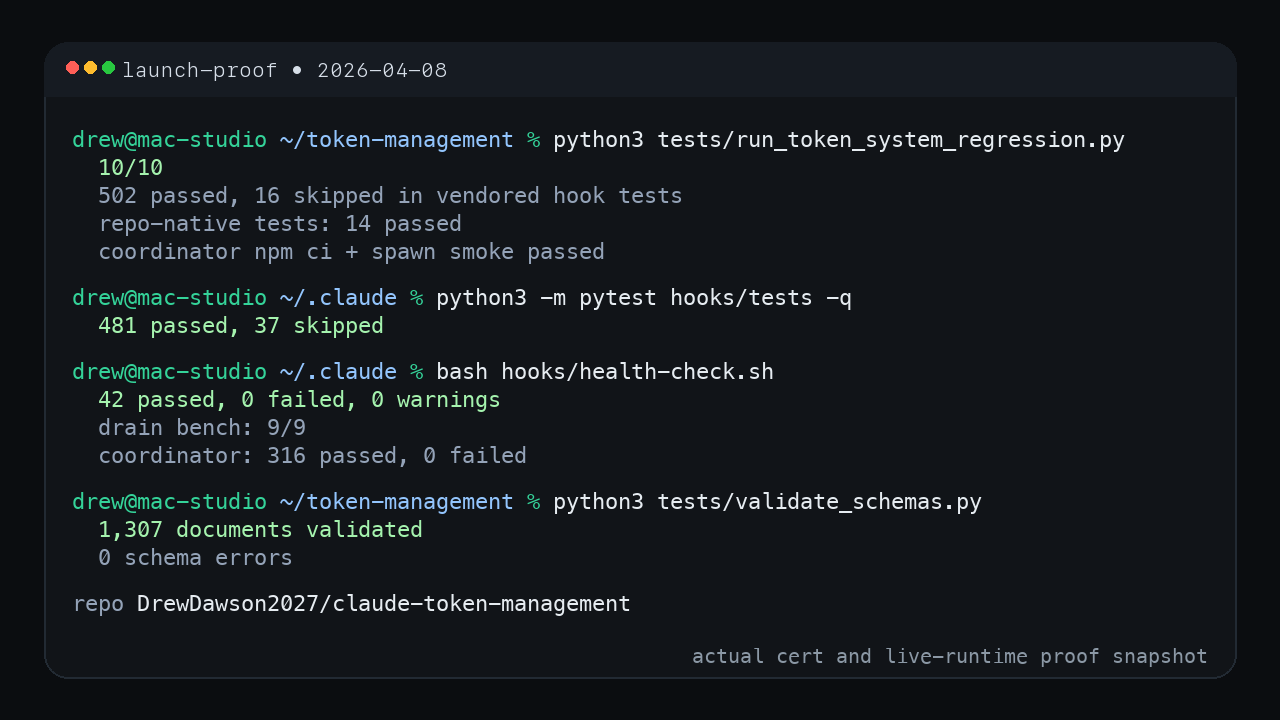
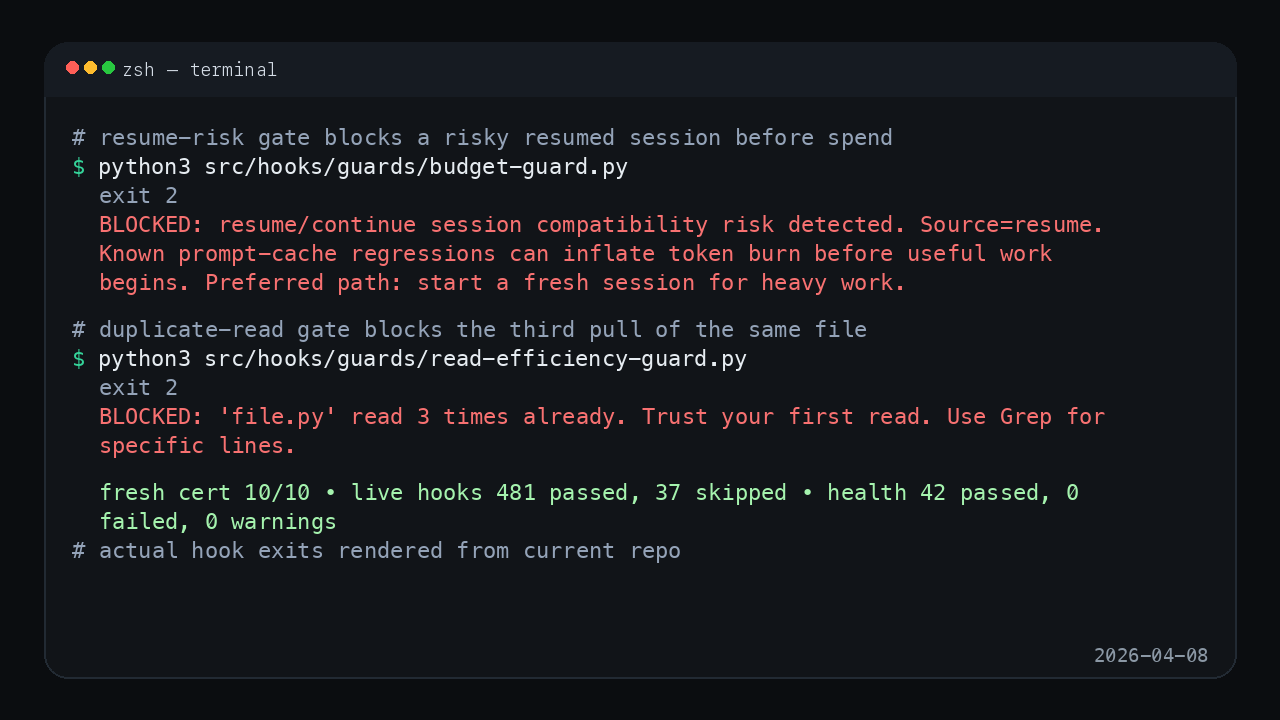
Refine launch proof terminal asset

diff --git a/src/scripts/reporting/render_launch_proof_asset.py b/src/scripts/reporting/render_launch_proof_asset.py
@@ -1,20 +1,27 @@
 #!/usr/bin/env python3
-"""Render a documentary-style social asset from the current proof snapshot."""
+"""Render a documentary-style launch asset that shows guard actions firing."""
 
 from __future__ import annotations
 
+import json
+import os
 import re
+import subprocess
+import sys
+import tempfile
 from pathlib import Path
+from textwrap import wrap
 
 from PIL import Image, ImageDraw, ImageFont
 
 
 ROOT = Path(__file__).resolve().parents[3]
-README = ROOT / "README.md"
 REGRESSION_RESULTS = ROOT / "docs" / "analysis" / "regression-results.md"
 DEFAULT_OUTPUT = ROOT / "assets" / "social" / "launch-proof.png"
 FONT_REGULAR = "/System/Library/Fonts/Menlo.ttc"
 FONT_BOLD = "/System/Library/Fonts/SFNSMono.ttf"
+BUDGET_GUARD = ROOT / "src" / "hooks" / "guards" / "budget-guard.py"
+READ_GUARD = ROOT / "src" / "hooks" / "guards" / "read-efficiency-guard.py"
 
 
 def load_text(path: Path) -> str:
@@ -29,33 +36,13 @@ def extract(pattern: str, text: str, name: str) -> str:
 
 
 def metrics() -> dict[str, str]:
-    readme = load_text(README)
     regression = load_text(REGRESSION_RESULTS)
-    schema_docs = extract(r"- `([\d,]+)` documents validated", regression, "schema_docs")
-    schema_errors = extract(r"- `([\d,]+)` schema errors", regression, "schema_errors")
     return {
         "fresh_cert": extract(r"- `([^`]+)` checks passed", regression, "fresh_cert"),
-        "vendored_hooks": extract(
-            r"- `([^`]+)` in vendored hook tests", regression, "vendored_hooks"
-        ),
-        "repo_tests": extract(
-            r"- `([^`]+)` in repo-native pytest coverage", regression, "repo_tests"
-        ),
         "live_hooks": extract(r"- Hook suite: `([^`]+)`", regression, "live_hooks"),
         "health": extract(r"- Health-check: `([^`]+)`", regression, "health"),
-        "drain_bench": extract(r"- Live drain benchmark: `([^`]+)`", regression, "drain_bench"),
-        "coordinator": extract(
-            r"- Source-tree coordinator suite: `([^`]+)`", regression, "coordinator"
-        ),
-        "schema_docs": schema_docs,
-        "schema_errors": schema_errors,
         "proof_date": extract(
             r"## ([0-9-]+) Certification Snapshot", regression, "proof_date"
-        ),
-        "repo_url": extract(
-            r"git clone https://github\.com/([A-Za-z0-9._/-]+)\.git",
-            readme,
-            "repo_url",
         ),
     }
 
@@ -72,16 +59,102 @@ def draw_segments(
         x += int(draw.textlength(text, font=font))
 
 
+def wrap_text(text: str, width: int = 84) -> list[str]:
+    lines: list[str] = []
+    for paragraph in text.splitlines():
+        stripped = paragraph.strip()
+        if not stripped:
+            lines.append("")
+            continue
+        lines.extend(wrap(stripped, width=width, break_long_words=False))
+    return lines
+
+
+def guard_env() -> dict[str, str]:
+    env = os.environ.copy()
+    env["PYTHONPATH"] = os.pathsep.join(
+        [
+            str(ROOT / "src" / "hooks" / "guards"),
+            str(ROOT / "src" / "hooks" / "infrastructure"),
+            env.get("PYTHONPATH", ""),
+        ]
+    )
+    return env
+
+
+def budget_guard_block() -> tuple[int, str]:
+    env = guard_env()
+    with tempfile.TemporaryDirectory() as td:
+        runtime = Path(td) / ".claude"
+        hooks = runtime / "hooks"
+        cost = runtime / "cost"
+        terminals = runtime / "terminals"
+        hooks.mkdir(parents=True)
+        cost.mkdir(parents=True)
+        terminals.mkdir(parents=True)
+        (hooks / "token-guard-config.json").write_text(
+            json.dumps({"budget_guard": {"enabled": True}}), encoding="utf-8"
+        )
+        (cost / "budgets.json").write_text(
+            json.dumps({"global": {"dailyUSD": 0, "monthlyUSD": 200}, "thresholds": {}}),
+            encoding="utf-8",
+        )
+        (cost / "cache.json").write_text(
+            json.dumps({"generatedAt": "2026-04-07T00:00:00Z", "windows": {}}),
+            encoding="utf-8",
+        )
+        (terminals / "session-resumeab.json").write_text(
+            json.dumps({"session": "resumeab", "source": "resume"}), encoding="utf-8"
+        )
+        env["CLAUDE_RUNTIME_DIR"] = str(runtime)
+        cp = subprocess.run(
+            [sys.executable, str(BUDGET_GUARD)],
+            input=json.dumps({"session_id": "resumeabc123", "tool_name": "Read"}),
+            capture_output=True,
+            text=True,
+            env=env,
+            check=False,
+        )
+    stderr = cp.stderr.strip()
+    stderr = re.sub(r" To acknowledge and continue anyway:.*$", "", stderr)
+    return cp.returncode, stderr
+
+
+def read_guard_block() -> tuple[int, str]:
+    env = guard_env()
+    with tempfile.TemporaryDirectory() as td:
+        env["TOKEN_GUARD_STATE_DIR"] = td
+        payload = {
+            "tool_name": "Read",
+            "tool_input": {"file_path": "/tmp/demo/file.py"},
+            "session_id": "dup-test",
+        }
+        cp = None
+        for _ in range(3):
+            cp = subprocess.run(
+                [sys.executable, str(READ_GUARD)],
+                input=json.dumps(payload),
+                capture_output=True,
+                text=True,
+                env=env,
+                check=False,
+            )
+        assert cp is not None
+    return cp.returncode, cp.stderr.strip()
+
+
 def render(output_path: Path) -> None:
     data = metrics()
+    budget_rc, budget_msg = budget_guard_block()
+    read_rc, read_msg = read_guard_block()
 
     width, height = 1280, 720
     canvas = Image.new("RGB", (width, height), "#0b0d10")
     draw = ImageDraw.Draw(canvas)
 
     regular = ImageFont.truetype(FONT_REGULAR, 22)
-    small = ImageFont.truetype(FONT_REGULAR, 20)
-    title = ImageFont.truetype(FONT_BOLD, 21)
+    small = ImageFont.truetype(FONT_REGULAR, 19)
+    title = ImageFont.truetype(FONT_BOLD, 18)
 
     window_x, window_y = 44, 42
     window_w, window_h = width - 88, height - 84
@@ -110,79 +183,67 @@ def render(output_path: Path) -> None:
         left = window_x + 22 + (idx * 18)
         draw.ellipse((left, dot_y, left + 12, dot_y + 12), fill=color)
 
-    draw.text(
-        (window_x + 78, window_y + 14),
-        f"launch-proof • {data['proof_date']}",
-        font=title,
-        fill="#d6dee8",
-    )
+    draw.text((window_x + 78, window_y + 16), "zsh — terminal", font=title, fill="#d6dee8")
 
-    prompt_green = (52, 211, 153)
-    cmd_white = (230, 236, 241)
+    prompt = (52, 211, 153)
+    cmd = (230, 236, 241)
     dim = (148, 163, 184)
-    accent = (147, 197, 253)
+    blocked = (248, 113, 113)
     ok = (165, 243, 174)
 
-    y = window_y + title_h + 30
-    line_gap = 18
-
-    lines: list[list[tuple[str, tuple[int, int, int]]]] = [
-        [
-            ("drew@mac-studio", prompt_green),
-            (" ~/token-management ", accent),
-            ("% ", prompt_green),
-            ("python3 tests/run_token_system_regression.py", cmd_white),
-        ],
-        [("  " + data["fresh_cert"], ok)],
-        [("  " + data["vendored_hooks"] + " in vendored hook tests", dim)],
-        [("  repo-native tests: " + data["repo_tests"], dim)],
-        [("  coordinator npm ci + spawn smoke passed", dim)],
-        [],
-        [
-            ("drew@mac-studio", prompt_green),
-            (" ~/.claude ", accent),
-            ("% ", prompt_green),
-            ("python3 -m pytest hooks/tests -q", cmd_white),
-        ],
-        [("  " + data["live_hooks"], ok)],
-        [],
-        [
-            ("drew@mac-studio", prompt_green),
-            (" ~/.claude ", accent),
-            ("% ", prompt_green),
-            ("bash hooks/health-check.sh", cmd_white),
-        ],
-        [("  " + data["health"], ok)],
-        [("  drain bench: " + data["drain_bench"], dim)],
-        [("  coordinator: " + data["coordinator"], dim)],
-        [],
-        [
-            ("drew@mac-studio", prompt_green),
-            (" ~/token-management ", accent),
-            ("% ", prompt_green),
-            ("python3 tests/validate_schemas.py", cmd_white),
-        ],
-        [("  " + data["schema_docs"] + " documents validated", ok)],
-        [("  " + data["schema_errors"] + " schema errors", dim)],
-        [],
-        [("repo ", dim), (data["repo_url"], cmd_white)],
+    lines: list[tuple[str, str]] = [
+        ("comment", "# resume-risk gate blocks a risky resumed session before spend"),
+        ("cmd", "$ python3 src/hooks/guards/budget-guard.py"),
+        ("dim", f"exit {budget_rc}"),
     ]
-
-    for segments in lines:
-        if segments:
-            draw_segments(draw, (window_x + 28, y), segments, regular)
-            y += regular.size + 6
-        else:
-            y += line_gap
-
-    footer = "actual cert and live-runtime proof snapshot"
-    footer_w = int(draw.textlength(footer, font=small))
-    draw.text(
-        (window_x + window_w - footer_w - 28, window_y + window_h - 34),
-        footer,
-        font=small,
-        fill="#8b98a5",
+    lines.extend(("blocked", line) for line in wrap_text(budget_msg, 79))
+    lines.extend(
+        [
+            ("blank", ""),
+            ("comment", "# duplicate-read gate blocks the third pull of the same file"),
+            ("cmd", "$ python3 src/hooks/guards/read-efficiency-guard.py"),
+            ("dim", f"exit {read_rc}"),
+        ]
     )
+    lines.extend(("blocked", line) for line in wrap_text(read_msg, 79))
+    lines.append(("blank", ""))
+    for line in wrap_text(
+        f"fresh cert {data['fresh_cert']} • live hooks {data['live_hooks']} • health {data['health']}",
+        74,
+    ):
+        lines.append(("ok", line))
+    lines.append(("comment", "# actual hook exits rendered from current repo"))
+
+    y = window_y + title_h + 28
+    for kind, text in lines:
+        if kind == "blank":
+            y += 18
+            continue
+        if kind == "cmd":
+            draw_segments(
+                draw,
+                (window_x + 28, y),
+                [
+                    ("$ ", prompt),
+                    (text[2:], cmd),
+                ],
+                regular,
+            )
+        else:
+            color = {
+                "comment": dim,
+                "dim": dim,
+                "blocked": blocked,
+                "ok": ok,
+                "repo": cmd,
+            }[kind]
+            prefix = "  " if kind in {"blocked", "dim", "ok", "repo"} else ""
+            draw.text((window_x + 28, y), prefix + text, font=regular, fill=color)
+        y += regular.size + 7
+
+    footer = data["proof_date"]
+    footer_w = int(draw.textlength(footer, font=small))
+    draw.text((window_x + window_w - footer_w - 28, window_y + window_h - 34), footer, font=small, fill="#8b98a5")
 
     output_path.parent.mkdir(parents=True, exist_ok=True)
     canvas.save(output_path)

diff --git a/docs/release/TWITTER_LAUNCH_SCRIPT.md b/docs/release/TWITTER_LAUNCH_SCRIPT.md
@@ -27,11 +27,9 @@ Post this first:
 ```text
 Claude Code token drain is real, and preventable.
 
-I built a local control plane that blocks repeated reads, wasteful subagents, risky resume flows, and bad routing before spend lands.
+This screenshot is the guardrail actually blocking a risky resume flow and duplicate reads before spend lands.
 
-Cert: 10/10
-Health: 42/42
-
+Repo + certs:
 https://github.com/DrewDawson2027/claude-token-management
 ```
 
@@ -61,7 +59,7 @@ If you want the longer version, use this thread instead of adding random replies
 ```text
 Claude Code token drain is real, and preventable.
 
-I built a local control plane that blocks repeated reads, wasteful subagents, risky resume flows, and bad routing before spend lands.
+This screenshot is the guardrail actually blocking a risky resume flow and duplicate reads before spend lands.
 
 Repo:
 https://github.com/DrewDawson2027/claude-token-management